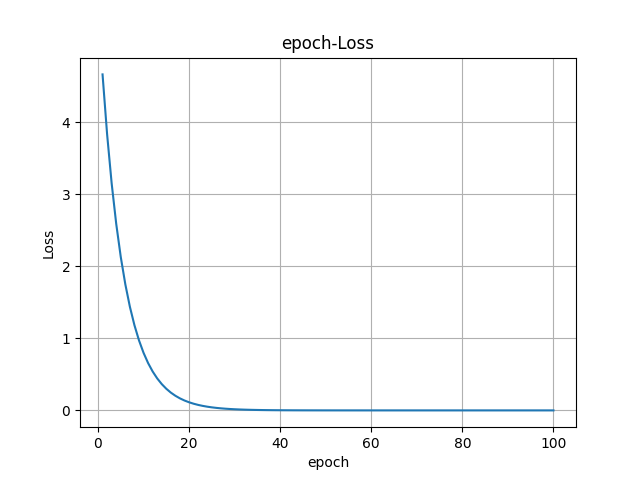
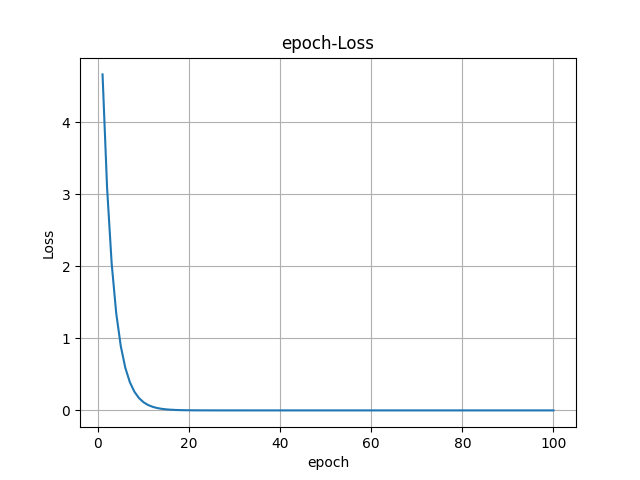
随机梯度下降算法

Changed region(s): [[0.1562, 0.1875, 0.25, 0.8438], [0.2188, 0.7812, 0.4375, 0.875]]

diff --git a/homework/week2/random gradient.py b/homework/week2/random gradient.py
@@ -2,13 +2,13 @@ import numpy as np
 import matplotlib.pyplot as plt
 
 w = 1.0
-vector = 0.02
+vector = 0.01
 
 x_data = [1.0, 2.0, 3.0]
 y_data = [2.0, 4.0, 6.0]
 
 w_list = []
-mes_list = []
+loss_list = []
 rounds = 100
 
 
@@ -24,6 +24,11 @@ def cost(xs, ys):
     return mes / len(xs)
 
 
+def loss(x, y):
+    y_pred = forward(x)
+    return (y - y_pred) ** 2
+
+
 def gradient(xs, ys):
     grad = 0
     for x, y in zip(xs, ys):
@@ -31,20 +36,26 @@ def gradient(xs, ys):
     return grad / len(xs)
 
 
+def gradient_random(x, y):
+    return 2 * x * (x * w - y)
+
+
 for epoch in range(rounds):
-    cost_val = cost(x_data, y_data)
-    grad_val = gradient(x_data, y_data)
-    w -= vector * grad_val
+    l = 0
+    for x, y in zip(x_data, y_data):
+        grad = gradient_random(x, y)
+        w = w - vector * grad
+        l += loss(x, y)
     w_list.append(w)
-    mes_list.append(cost_val)
+    loss_list.append(l / len(x_data))
 
 epoch_list = np.arange(1, rounds + 1).tolist()
-plt.plot(epoch_list, mes_list)
+plt.plot(epoch_list, loss_list)
 plt.xlabel('epoch')
 plt.ylabel('Loss')
-plt.title('epoch-Loss')
+plt.title('epoch-Loss_random')
 plt.grid(True)
-plt.savefig('epoch-Loss.png')
+plt.savefig('epoch-Loss_random.png')
 plt.show()
 
 plt.plot(epoch_list, w_list)
@@ -52,5 +63,5 @@ plt.xlabel('epoch')
 plt.ylabel('W')
 plt.title('epoch-W')
 plt.grid(True)
-plt.savefig('epoch-W.png')
+plt.savefig('epoch-W_random.png')
 plt.show()

diff --git a/notes/pytorch 深度学习实践笔记.md b/notes/pytorch 深度学习实践笔记.md
@@ -47,7 +47,13 @@
 
 更新权重
 
+> 梯度下降
+>
 > w = w-a(cost'/w')
+
+> 随机梯度下降
+>
+> w = w - a(loss'/w')
 
 
 
